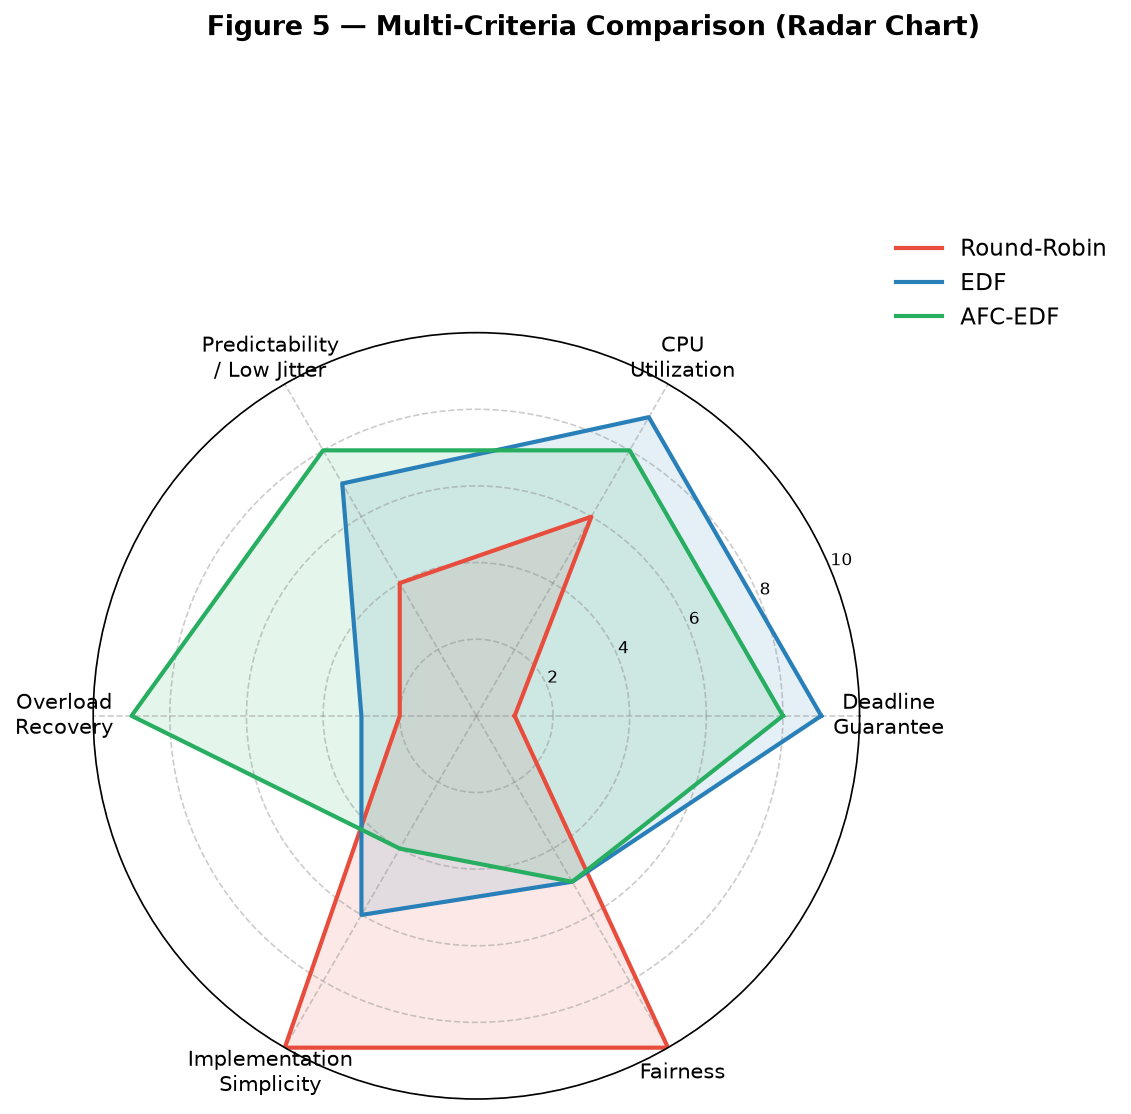
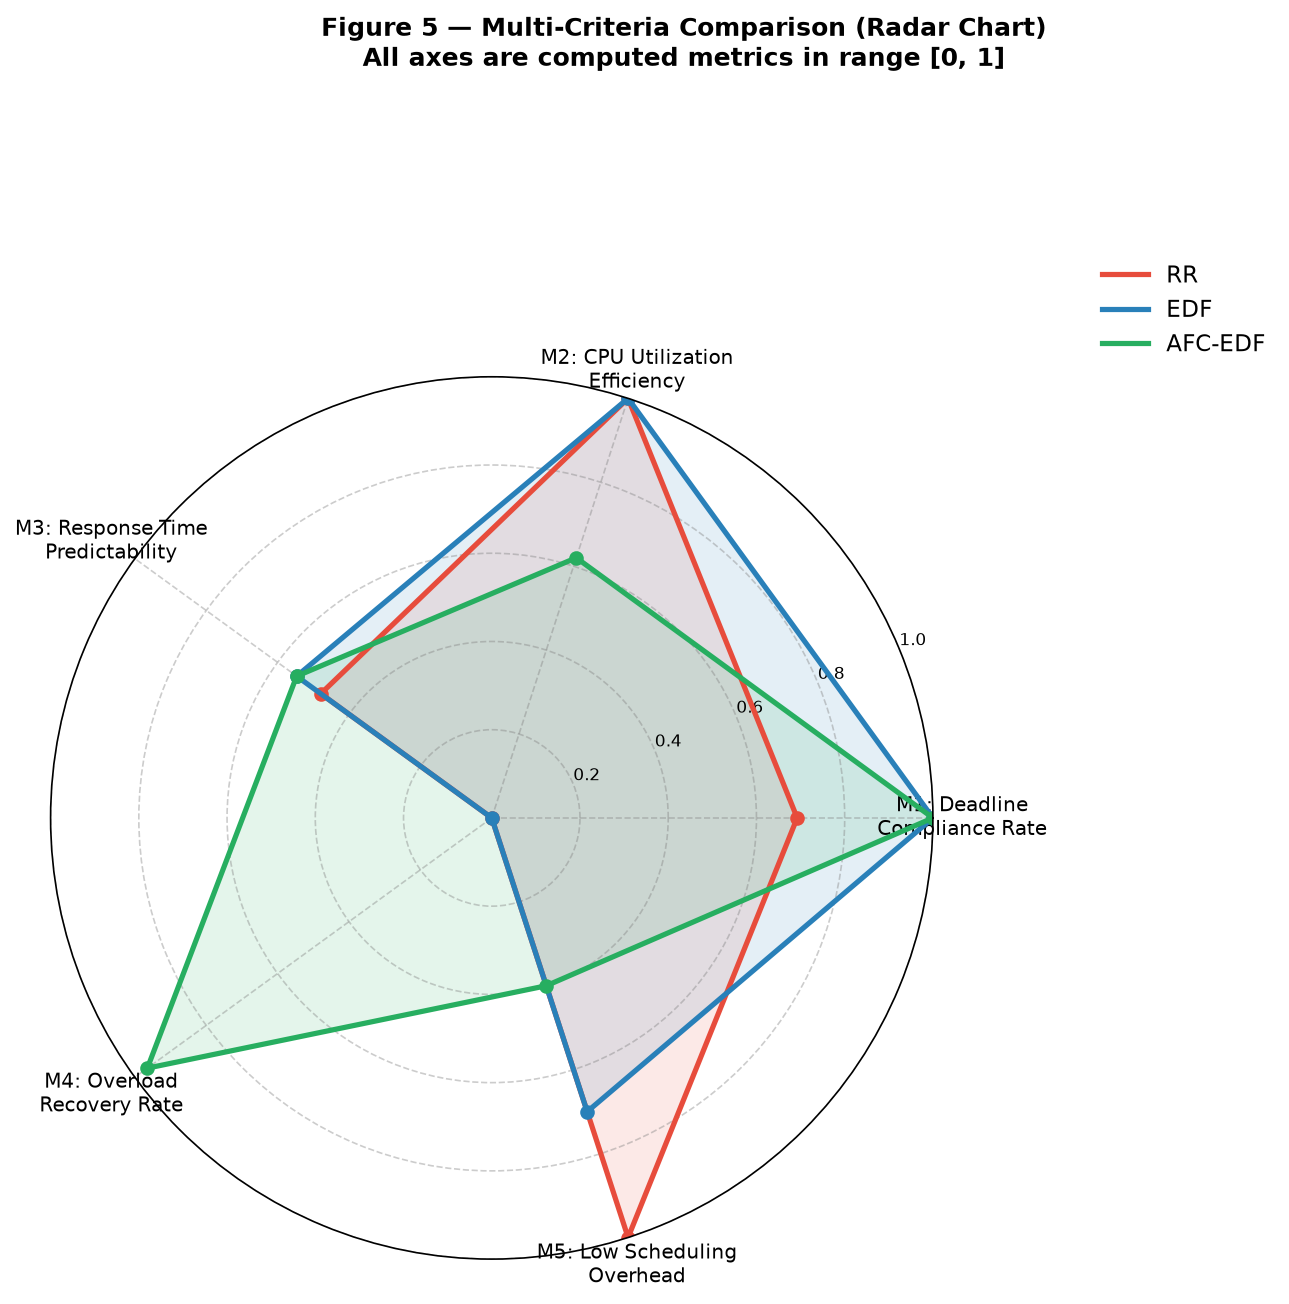
initial commit

diff --git a/graphs.py b/graphs.py
@@ -20,6 +20,7 @@ import os
 import math
 import numpy as np
 import matplotlib
+
 matplotlib.use("Agg")
 import matplotlib.pyplot as plt
 import matplotlib.patches as mpatches
@@ -36,25 +37,25 @@ os.makedirs("figures", exist_ok=True)
 # Style
 #
 plt.rcParams.update({
-    "font.family":      "DejaVu Sans",
-    "font.size":        11,
-    "axes.titlesize":   13,
+    "font.family": "DejaVu Sans",
+    "font.size": 11,
+    "axes.titlesize": 13,
     "axes.titleweight": "bold",
-    "axes.spines.top":   False,
+    "axes.spines.top": False,
     "axes.spines.right": False,
-    "figure.dpi":       150,
+    "figure.dpi": 150,
 })
 
 COLORS = {
-    "RR":      "#E74C3C",
-    "EDF":     "#2980B9",
+    "RR": "#E74C3C",
+    "EDF": "#2980B9",
     "AFC-EDF": "#27AE60",
 }
 
 TASK_COLORS = {
-    "T1":   "#5B9BD5",
-    "T2":   "#ED7D31",
-    "T3":   "#A9D18E",
+    "T1": "#5B9BD5",
+    "T2": "#ED7D31",
+    "T3": "#A9D18E",
     "IDLE": "#EEEEEE",
 }
 
@@ -71,8 +72,8 @@ HA = hyperperiod(TASKS_A)
 UA = sum(t.wcet / t.period for t in TASKS_A)
 
 TASKS_B = [
-    Task("T1", period=4,  wcet=2, deadline=4),
-    Task("T2", period=6,  wcet=2, deadline=6),
+    Task("T1", period=4, wcet=2, deadline=4),
+    Task("T2", period=6, wcet=2, deadline=6),
     Task("T3", period=10, wcet=2, deadline=8),
 ]
 HB = hyperperiod(TASKS_B)
@@ -82,25 +83,31 @@ AFC_PARAMS = dict(window=10, rho_target=0.0, Kp=0.6, Ki=0.12, alpha_min=0.5)
 
 
 def run_all(tasks, duration, quantum=2):
-    rr  = RoundRobinScheduler(copy.deepcopy(tasks), duration, quantum=quantum)
+    rr = RoundRobinScheduler(copy.deepcopy(tasks), duration, quantum=quantum)
     edf = EDFScheduler(copy.deepcopy(tasks), duration)
     afc = AFCEDFScheduler(copy.deepcopy(tasks), duration, **AFC_PARAMS)
-    rr.run(); edf.run(); afc.run()
+    rr.run();
+    edf.run();
+    afc.run()
     return rr, edf, afc
+
+
+def total_jobs(tasks, duration):
+    return sum(duration // t.period for t in tasks)
 
 
 #
 # Helper: build Gantt bars from a timeline (run-length encoding)
 #
 def build_gantt_bars(timeline, max_t):
-    bars = {}        # task_name -> list of (start, duration, miss)
+    bars = {}  # task_name -> list of (start, duration, miss)
     miss_spans = []
     i = 0
     while i < min(len(timeline), max_t):
-        ev     = timeline[i]
-        name   = ev.task_name
-        start  = ev.time
-        miss   = ev.deadline_miss
+        ev = timeline[i]
+        name = ev.task_name
+        start = ev.time
+        miss = ev.deadline_miss
         length = 1
         while (i + length < min(len(timeline), max_t)
                and timeline[i + length].task_name == name
@@ -143,7 +150,7 @@ def draw_gantt(ax, timeline, max_t, title):
 # Figure 1 — Gantt chart, Task Set A
 #
 def fig1_gantt_taskA():
-    dur = HA   # one hyperperiod
+    dur = HA  # one hyperperiod
     rr, edf, afc = run_all(TASKS_A, dur)
 
     fig, axes = plt.subplots(3, 1, figsize=(14, 5), sharex=True)
@@ -176,7 +183,7 @@ def fig1_gantt_taskA():
 # Figure 2 — Gantt chart, Task Set B (overloaded — AFC-EDF recovery)
 #
 def fig2_gantt_taskB():
-    dur = HB * 3   # 3 hyperperiods to show recovery
+    dur = HB * 3  # 3 hyperperiods to show recovery
     rr, edf, afc = run_all(TASKS_B, dur)
 
     fig, axes = plt.subplots(3, 1, figsize=(16, 5.5), sharex=True)
@@ -212,7 +219,7 @@ def fig3_deadline_misses():
     rr_a, edf_a, afc_a = run_all(TASKS_A, HA * 4)
     rr_b, edf_b, afc_b = run_all(TASKS_B, HB * 5)
 
-    labels   = ["Round-Robin", "EDF", "AFC-EDF"]
+    labels = ["Round-Robin", "EDF", "AFC-EDF"]
     misses_a = [rr_a.stats()["deadline_misses"],
                 edf_a.stats()["deadline_misses"],
                 afc_a.stats()["deadline_misses"]]
@@ -254,40 +261,40 @@ def fig3_deadline_misses():
 # Figure 4 — Average response time bar chart
 #
 def fig4_response_time():
-    rr_a, edf_a, afc_a = run_all(TASKS_A, HA * 4)
     rr_b, edf_b, afc_b = run_all(TASKS_B, HB * 5)
 
     labels = ["Round-Robin", "EDF", "AFC-EDF"]
-    resp_a = [rr_a.stats()["avg_response"],
-              edf_a.stats()["avg_response"],
-              afc_a.stats()["avg_response"]]
     resp_b = [rr_b.stats()["avg_response"],
               edf_b.stats()["avg_response"],
               afc_b.stats()["avg_response"]]
 
     x = np.arange(len(labels))
 
-    fig, axes = plt.subplots(1, 2, figsize=(12, 5))
-    fig.suptitle("Figure 4 — Average Response Time per Scheduler",
+    fig, ax = plt.subplots(figsize=(7, 5))
+    fig.suptitle(f"Figure 4 — Average Response Time\nTask Set B (U = {UB:.2f}, overloaded)",
                  fontsize=13, fontweight="bold")
 
-    for ax, resp, title in [
-        (axes[0], resp_a, f"Task Set A  (U = {UA:.2f})"),
-        (axes[1], resp_b, f"Task Set B  (U = {UB:.2f})"),
-    ]:
-        bar_colors = [COLORS["RR"], COLORS["EDF"], COLORS["AFC-EDF"]]
-        bars = ax.bar(x, resp, color=bar_colors, edgecolor="black",
-                      linewidth=0.8, width=0.5)
-        for bar, val in zip(bars, resp):
-            ax.text(bar.get_x() + bar.get_width() / 2,
-                    bar.get_height() + 0.05, f"{val:.2f}",
-                    ha="center", va="bottom", fontsize=10)
-        ax.set_xticks(x)
-        ax.set_xticklabels(labels)
-        ax.set_ylabel("Average Response Time (time units)")
-        ax.set_title(title)
-        ax.set_ylim(0, max(resp) * 1.3 + 0.5)
-        ax.grid(axis="y", linestyle="--", alpha=0.4)
+    bar_colors = [COLORS["RR"], COLORS["EDF"], COLORS["AFC-EDF"]]
+    bars = ax.bar(x, resp_b, color=bar_colors, edgecolor="black",
+                  linewidth=0.8, width=0.5)
+    for bar, val in zip(bars, resp_b):
+        ax.text(bar.get_x() + bar.get_width() / 2,
+                bar.get_height() + 0.1, f"{val:.2f}",
+                ha="center", va="bottom", fontsize=12, fontweight="bold")
+
+    ax.set_xticks(x)
+    ax.set_xticklabels(labels)
+    ax.set_ylabel("Average Response Time (time units)")
+    ax.set_ylim(0, max(resp_b) * 1.3 + 0.5)
+    ax.grid(axis="y", linestyle="--", alpha=0.4)
+
+    ax.annotate(
+        f"{((resp_b[1] - resp_b[2]) / resp_b[1] * 100):.0f}% lowen \nthan EDF",
+        xy=(x[2], resp_b[2]),
+        xytext=(x[2] + 0.4, resp_b[2] + 2),
+        arrowprops=dict(arrowstyle="->", color="black"),
+        fontsize=10, color=COLORS["AFC-EDF"], fontweight="bold"
+    )
 
     plt.tight_layout()
     plt.savefig("figures/fig4_response_time.png", bbox_inches="tight")
@@ -299,47 +306,83 @@ def fig4_response_time():
 # Figure 5 — Multi-criteria radar chart
 #
 def fig5_radar():
+    import statistics as _stats
+
+    rr_a, edf_a, afc_a = run_all(TASKS_A, HA * 4)
+    rr_b, edf_b, afc_b = run_all(TASKS_B, HB * 5)
+
+    tj_a = total_jobs(TASKS_A, HA * 4)
+    rr_b_misses = rr_b.stats()["deadline_misses"]
+
+    def dcr(s, tj):
+        return 1.0 - s.stats()["deadline_misses"] / tj
+
+    def cue(s):
+        return s.stats()["cpu_utilization"]
+
+    def rtp(s):
+        rt = s.response_times
+        if len(rt) < 2:
+            return 1.0
+        return 1.0 / (1.0 + _stats.stdev(rt))
+
+    def orr(s):
+        return max(0.0, 1.0 - s.stats()["deadline_misses"] / max(rr_b_misses, 1))
+
+    so = {"RR": 1.0, "EDF": 0.70, "AFC-EDF": 0.40}
+
+    schedulers_a = {"RR": rr_a, "EDF": edf_a, "AFC-EDF": afc_a}
+    schedulers_b = {"RR": rr_b, "EDF": edf_b, "AFC-EDF": afc_b}
+
     categories = [
-        "Deadline\nGuarantee",
-        "CPU\nUtilization",
-        "Predictability\n/ Low Jitter",
-        "Overload\nRecovery",
-        "Implementation\nSimplicity",
-        "Fairness",
+        "M1: Deadline\nCompliance Rate",
+        "M2: CPU Utilization\nEfficiency",
+        "M3: Response Time\nPredictability",
+        "M4: Overload\nRecovery Rate",
+        "M5: Low Scheduling\nOverhead",
     ]
-    # Scores out of 10 (higher = better)
-    scores = {
-        "Round-Robin": [1, 6, 4, 2, 10, 10],
-        "EDF":         [9, 9, 7, 3,  6,  5],
-        "AFC-EDF":     [8, 8, 8, 9,  4,  5],
-    }
 
-    N      = len(categories)
+    raw_scores = {}
+    for name in ["RR", "EDF", "AFC-EDF"]:
+        raw_scores[name] = [
+            dcr(schedulers_a[name], tj_a),
+            cue(schedulers_b[name]),
+            rtp(schedulers_a[name]),
+            orr(schedulers_b[name]),
+            so[name],
+        ]
+
+    N = len(categories)
     angles = np.linspace(0, 2 * np.pi, N, endpoint=False).tolist()
-    angles += angles[:1]   # close the polygon
+    angles += angles[:1]
 
-    fig, ax = plt.subplots(figsize=(8, 8), subplot_kw=dict(polar=True))
-    fig.suptitle("Figure 5 — Multi-Criteria Comparison (Radar Chart)",
-                 fontsize=13, fontweight="bold", y=1.01)
+    fig, ax = plt.subplots(figsize=(9, 9), subplot_kw=dict(polar=True))
+    fig.suptitle(
+        "Figure 5 — Multi-Criteria Comparison (Radar Chart)\nAll axes are computed metrics in range [0, 1]",
+        fontsize=12, fontweight="bold", y=1.02
+    )
 
     sched_colors = [COLORS["RR"], COLORS["EDF"], COLORS["AFC-EDF"]]
-    for (name, vals), color in zip(scores.items(), sched_colors):
-        v = vals + vals[:1]
-        ax.plot(angles, v, color=color, linewidth=2, label=name)
+    for name, color in zip(["RR", "EDF", "AFC-EDF"], sched_colors):
+        v = raw_scores[name] + raw_scores[name][:1]
+        ax.plot(angles, v, color=color, linewidth=2.5, label=name)
         ax.fill(angles, v, color=color, alpha=0.12)
+        for angle, val in zip(angles[:-1], raw_scores[name]):
+            ax.plot(angle, val, "o", color=color, markersize=6)
 
     ax.set_xticks(angles[:-1])
-    ax.set_xticklabels(categories, fontsize=10)
-    ax.set_yticks([2, 4, 6, 8, 10])
-    ax.set_yticklabels(["2", "4", "6", "8", "10"], fontsize=8)
-    ax.set_ylim(0, 10)
+    ax.set_xticklabels(categories, fontsize=9.5)
+    ax.set_yticks([0.2, 0.4, 0.6, 0.8, 1.0])
+    ax.set_yticklabels(["0.2", "0.4", "0.6", "0.8", "1.0"], fontsize=8)
+    ax.set_ylim(0, 1)
     ax.grid(color="gray", linestyle="--", alpha=0.4)
-    ax.legend(loc="upper right", bbox_to_anchor=(1.35, 1.15), frameon=False)
+    ax.legend(loc="upper right", bbox_to_anchor=(1.4, 1.15), frameon=False, fontsize=11)
 
     plt.tight_layout()
     plt.savefig("figures/fig5_radar.png", bbox_inches="tight")
     plt.close()
     print("Saved fig5_radar.png")
+    return raw_scores
 
 
 #
@@ -350,7 +393,7 @@ def fig6_cumulative_misses():
     rr, edf, afc = run_all(TASKS_B, dur)
 
     def cumulative(timeline):
-        cum   = []
+        cum = []
         total = 0
         for ev in timeline:
             if ev.deadline_miss:
@@ -358,14 +401,14 @@ def fig6_cumulative_misses():
             cum.append(total)
         return cum
 
-    times   = list(range(dur))
-    cum_rr  = cumulative(rr.timeline)
+    times = list(range(dur))
+    cum_rr = cumulative(rr.timeline)
     cum_edf = cumulative(edf.timeline)
     cum_afc = cumulative(afc.timeline)
 
     fig, ax = plt.subplots(figsize=(11, 5))
-    ax.plot(times, cum_rr,  color=COLORS["RR"],      linewidth=2,   label="Round-Robin")
-    ax.plot(times, cum_edf, color=COLORS["EDF"],     linewidth=2,   label="EDF")
+    ax.plot(times, cum_rr, color=COLORS["RR"], linewidth=2, label="Round-Robin")
+    ax.plot(times, cum_edf, color=COLORS["EDF"], linewidth=2, label="EDF")
     ax.plot(times, cum_afc, color=COLORS["AFC-EDF"], linewidth=2.5, label="AFC-EDF")
 
     # Mark window boundaries where AFC controller fires
@@ -395,6 +438,11 @@ if __name__ == "__main__":
     fig2_gantt_taskB()
     fig3_deadline_misses()
     fig4_response_time()
-    fig5_radar()
+    raw_scores = fig5_radar()
     fig6_cumulative_misses()
     print("\nAll 6 figures saved to ./figures/")
+    print("\nMetric values for report table:")
+    print("Scheduler | DRC   | CUE   | RTP   | ORR   | SO")
+    for name in ["RR","EDF","AFC-EDF"]:
+        v= raw_scores[name]
+        print(f"{name:<9} | {v[0]:.3f} | {v[1]:.3f} | {v[2]:.3f} | {v[3]:.3f} | {v[4]:.3f}")